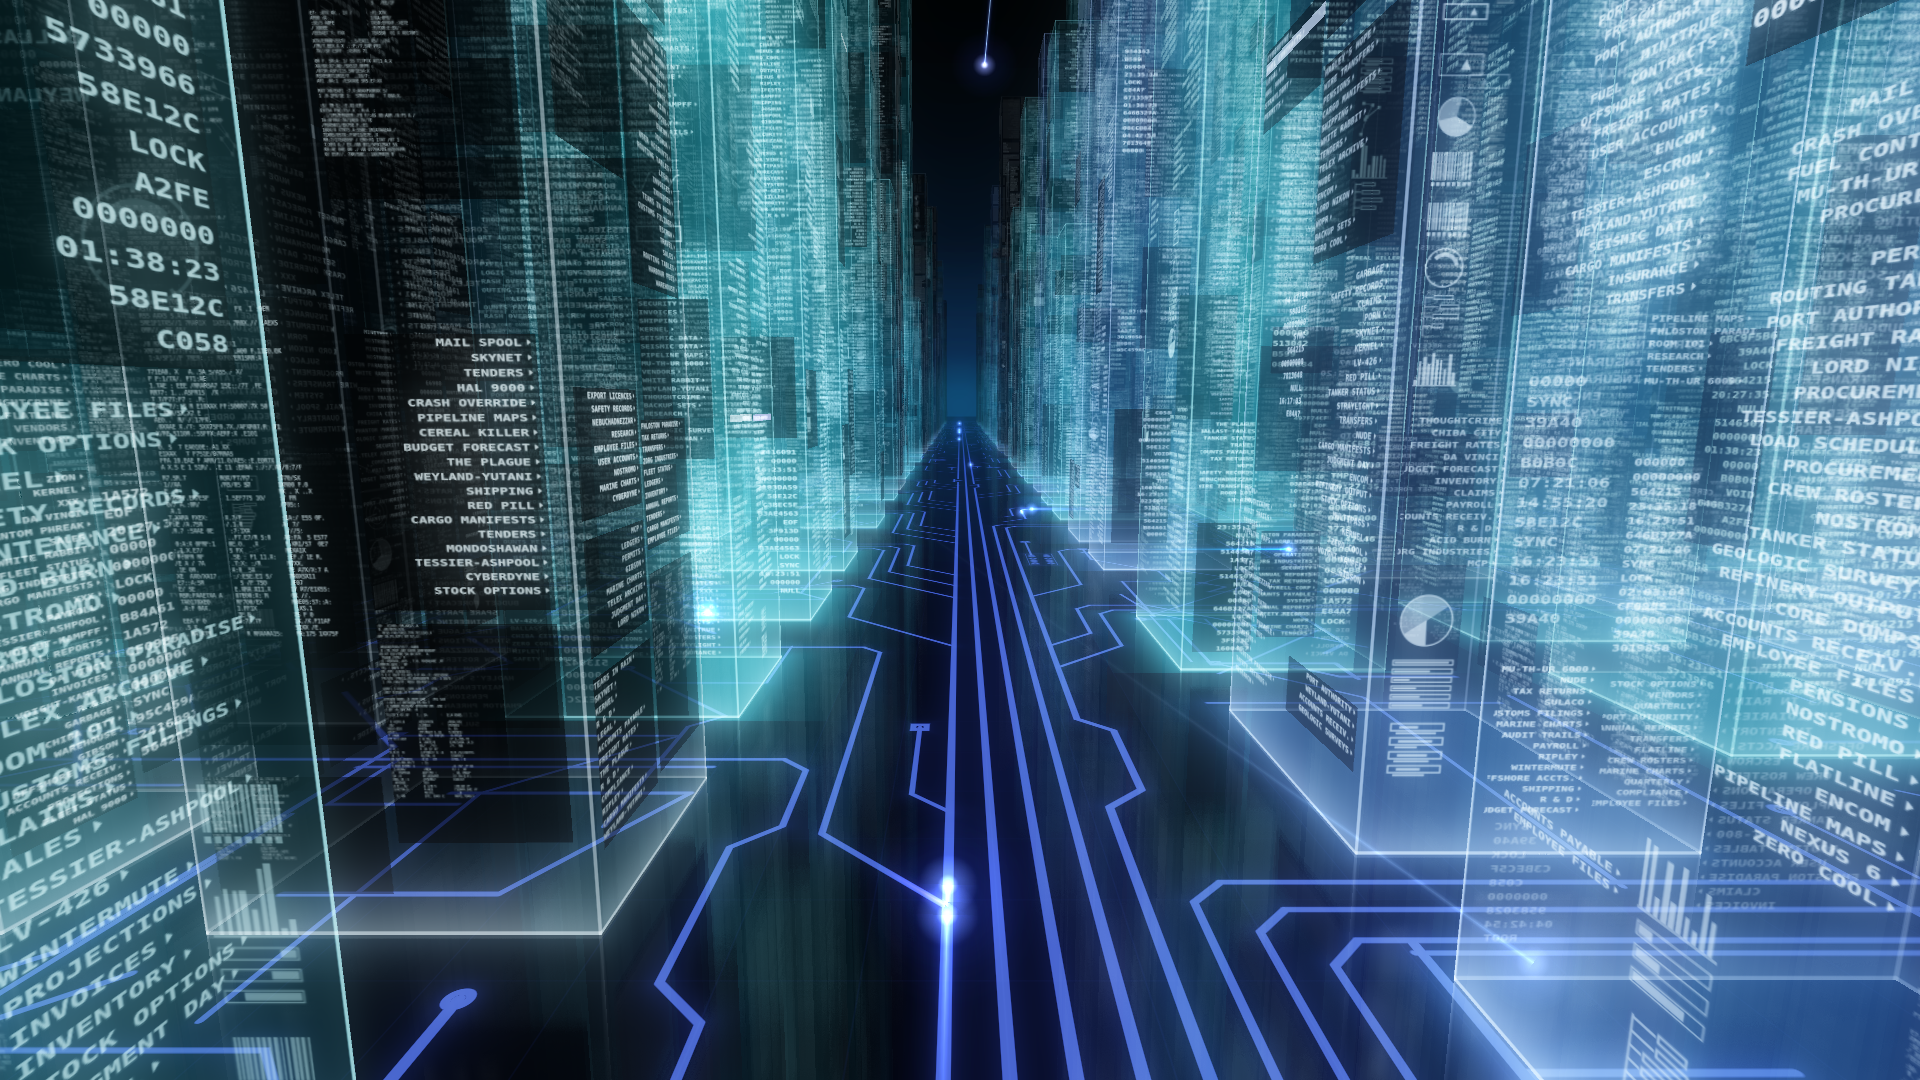
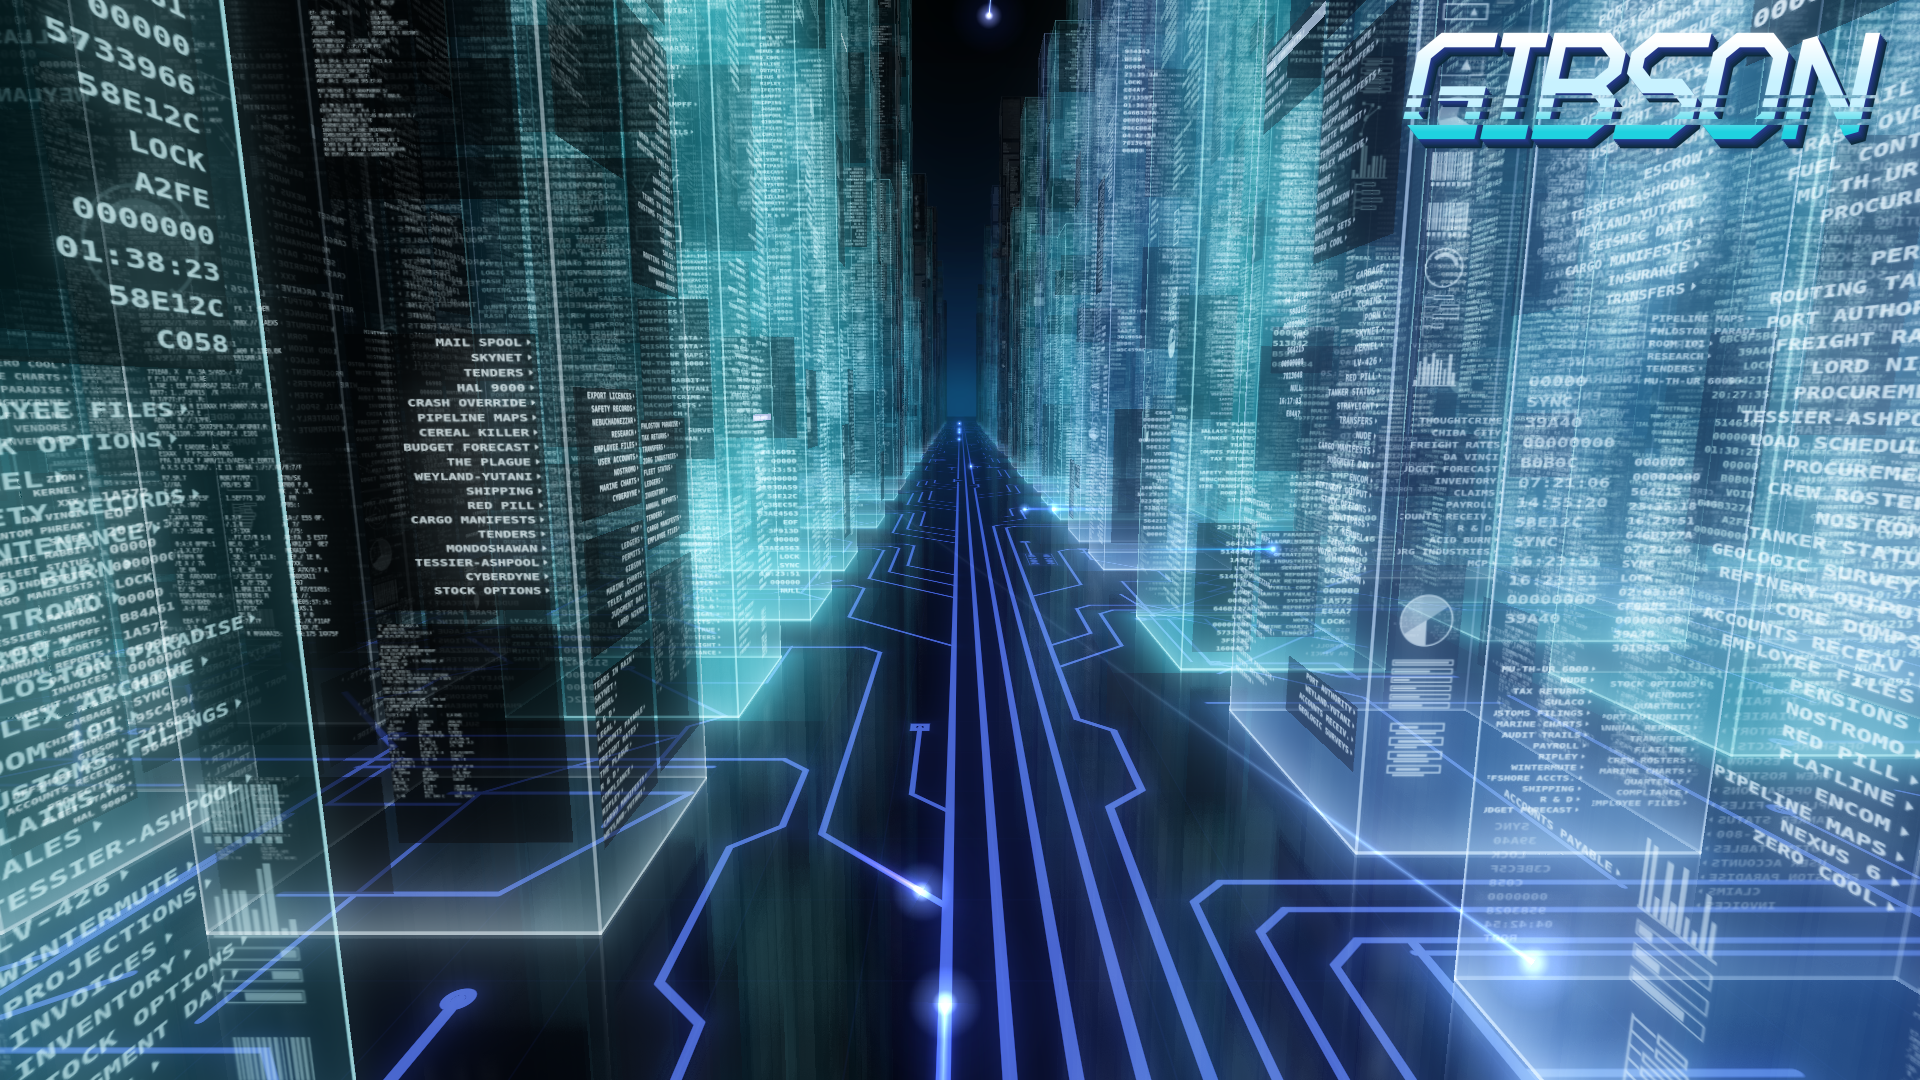
The hostname where racing has it in every scene that hides it, and gibson's shown in the README
The scenes that hide the hostname by default put it, when it is shown, at the same place: where the
upper right bracket's corner was (corner = 0.03), as racing does. forest, blocky and gibson set it.
The matrix's lettering, its own, sized from the hostname's slot, now has the top of its ink at that
corner too: it stood lower than the others'. Its place is the theme's (Theme::own_place), and in the top right corner the
hostname's place is its letters' (title_place): the instruments, the status line and the caption
line up with and keep clear of what is drawn, not the lettering it stands in for. The README's
pictures of these are made again, gibson's now with its hostname, and racing's clip with the poles
as they are drawn now, each whole as it comes into view.

diff --git a/src/title.rs b/src/title.rs
@@ -14,12 +14,35 @@ type Pts = Vec<(f64, f64)>;
 type InkEdges = Vec<Option<(f64, f64)>>;
 
 /// A theme's lettering measurements, each made once when first needed: a glyph's ink edges by row, a
-/// pair's kerning, a name's ink reach.
+/// pair's kerning, a name's ink reach; and the lettering of its own an element draws the hostname in,
+/// if one does.
 #[derive(Default)]
 pub struct Measures {
     edges: Mutex<HashMap<char, InkEdges>>,
     kerns: Mutex<HashMap<(char, char), f64>>,
     ink: Mutex<HashMap<String, Ink>>,
+    own: Mutex<Option<std::sync::Arc<OwnLettering>>>,
+}
+
+/// A lettering of a theme's own, drawn by an element in place of the hostname's (the matrix's
+/// `codetitle`): each glyph's advance and ink box [x_min, y_min, x_max, y_max] in its units, y down,
+/// origin on the baseline, and its pairs' kerning. With one, the hostname's place is its letters'.
+#[derive(Clone, Debug, Default)]
+pub struct OwnLettering {
+    pub glyphs: HashMap<char, (f64, [f64; 4])>,
+    pub kerning: HashMap<String, f64>,
+}
+
+/// The hostname in a lettering of the theme's own, placed: its letters (upper case, those it has), each
+/// one's pen position, its scale (pixels a unit), the right of its ink, its baseline, and its ink box
+/// in its units (left, right, height above the baseline).
+pub struct OwnPlaced {
+    pub text: Vec<char>,
+    pub pens: Vec<f64>,
+    pub s: f64,
+    pub right: f64,
+    pub base: f64,
+    pub ink: (f64, f64, f64),
 }
 
 /// How far a name's ink (strokes and extrusion, slanted) reaches past its slanted letter box, in letter
@@ -370,10 +393,57 @@ impl Theme {
         v
     }
 
+    /// The lettering of the theme's own its element draws the hostname in, from now on (`OwnLettering`).
+    pub fn set_own_lettering(&self, l: OwnLettering) {
+        *held(&self.measures.own) = Some(std::sync::Arc::new(l));
+    }
+
+    /// The hostname in the theme's own lettering, if it has one: as tall as the hostname's letters and
+    /// a quarter (the film's capitals), no wider than their room, the right of its ink at the hostname's
+    /// right; in the top right corner of a theme with a corner the top of its ink at it, else on the
+    /// hostname's baseline.
+    pub fn own_place(&self, width: i32, height: i32, host: &str, edges: Edges) -> Option<OwnPlaced> {
+        let own = held(&self.measures.own).clone()?;
+        let text: Vec<char> = self.title_text(host).iter().flat_map(|c| c.to_uppercase()).filter(|c| own.glyphs.contains_key(c)).collect();
+        if text.is_empty() {
+            return None;
+        }
+        let p = self.letter_place(width, height, host, edges);
+        let mut pens = vec![];
+        let mut pen = 0.0;
+        for k in 0..text.len() {
+            pens.push(pen);
+            let pair: String = text[k..(k + 2).min(text.len())].iter().collect();
+            pen += own.glyphs.get(&text[k]).map_or(0.0, |g| g.0) + own.kerning.get(&pair).copied().unwrap_or(0.0);
+        }
+        let boxes: Vec<(f64, f64, f64)> = pens.iter().zip(&text).filter_map(|(&p, ch)| own.glyphs.get(ch).map(|g| (p + g.1[0], g.1[1], p + g.1[2]))).collect();
+        let left = boxes.iter().map(|b| b.0).fold(f64::INFINITY, f64::min);
+        let right = boxes.iter().map(|b| b.2).fold(f64::NEG_INFINITY, f64::max);
+        let top = -boxes.iter().map(|b| b.1).fold(f64::INFINITY, f64::min);
+        let tr = self.title_right(width, height);
+        let s = ((p.base - p.y0) * 1.25 / 1.0f64.max(top)).min((tr - p.x0) / 1.0f64.max(right - left));
+        let cornered = self.tw.corner != 0.0 && self.tw.title_corner == TitleCorner::TopRight;
+        let base = if cornered { self.tw.corner * unit(width, height) + top * s } else { p.base };
+        Some(OwnPlaced { text, pens, s, right: tr, base, ink: (left, right, top) })
+    }
+
     /// Placement of the hostname, in pixels (letter x positions in letter units). Default: ink's top
     /// right corner at CORNER. TITLE_CORNER bottom-left: first letter's foot inset equally from left and
-    /// bottom.
+    /// bottom. In a lettering of the theme's own (`own_place`) in the top right corner, its letters' top,
+    /// baseline and left: what keeps clear of the hostname, or lines up with it, does so with what is
+    /// drawn. (Bottom left, what finds the hostname works from its letters' spacing: there it keeps to
+    /// the theme's lettering's box.) A scene has one hostname lettering: `u`, `cap` and `xs` are the
+    /// theme's lettering's, and do not go with an own lettering's `x0`, `y0` and `base`.
     pub fn title_place(&self, width: i32, height: i32, host: &str, edges: Edges) -> Placed {
+        let p = self.letter_place(width, height, host, edges);
+        match self.own_place(width, height, host, edges).filter(|_| self.tw.title_corner == TitleCorner::TopRight) {
+            Some(o) => Placed { y0: o.base - o.ink.2 * o.s, base: o.base, x0: o.right - (o.ink.1 - o.ink.0) * o.s, ..p },
+            None => p,
+        }
+    }
+
+    /// The hostname's placement in the theme's lettering (`title_place`, without a lettering of its own).
+    fn letter_place(&self, width: i32, height: i32, host: &str, edges: Edges) -> Placed {
         let tw = &self.tw;
         let text = self.title_text(host);
         let u = self.title_unit(width, height, &text);

diff --git a/src/elements/code_rain.rs b/src/elements/code_rain.rs
@@ -645,36 +645,16 @@ impl Part for CodeTitle {
     fn paint(&mut self, g: &Geo, ctx_: &Context, _s: &mut Shared) {
         let (w, h) = (g.w, g.h);
         let font = &self.font;
-        let text: Vec<char> = g.th.title_text(&g.host).iter().flat_map(|c| c.to_uppercase()).filter(|c| font.glyphs.contains_key(c)).collect();
-        let p = g.th.title_place(w, h, &g.host, Edges::NONE);
-        let (y0, base, x0) = (p.y0, p.base, p.x0);
-        let mut pens = vec![];
-        let mut pen = 0.0;
-        for k in 0..text.len() {
-            pens.push(pen);
-            let pair: String = text[k..(k + 2).min(text.len())].iter().collect();
-            pen += font.glyphs.get(&text[k]).map_or(0.0, |g| g.advance) + font.kerning.get(&pair).copied().unwrap_or(0.0);
-        }
-        let boxes: Vec<(f64, f64, f64)> = pens
-            .iter()
-            .zip(&text)
-            .filter_map(|(&p, ch)| {
-                let b = font.glyphs.get(ch)?.ink;
-                Some((p + b[0], b[1], p + b[2]))
-            })
-            .collect();
         let surface_ = surface(w, h);
         let out = surface(w, h);
         {
             let o = ctx(&out);
-            if !boxes.is_empty() {
-                let left = boxes.iter().map(|b| b.0).fold(f64::INFINITY, f64::min);
-                let right = boxes.iter().map(|b| b.2).fold(f64::NEG_INFINITY, f64::max);
-                let top = -boxes.iter().map(|b| b.1).fold(f64::INFINITY, f64::min);
-                let tr = g.th.title_right(w, h);
-                let s = ((base - y0) * 1.25 / 1.0f64.max(top)).min((tr - x0) / 1.0f64.max(right - left));
-                let x1 = tr;
-                let (x0_ink, y0_ink) = (x1 - (right - left) * s, base - top * s);
+            // where the hostname is in this lettering: the theme's own placement of it, which what lines up
+            // with the hostname uses too
+            if let Some(p) = g.th.own_place(w, h, &g.host, Edges::NONE) {
+                let ((_, right, top), s, base, x1) = (p.ink, p.s, p.base, p.right);
+                let (pens, text) = (&p.pens, &p.text);
+                let (x0_ink, y0_ink) = (x1 - (right - p.ink.0) * s, base - top * s);
                 let (pad, blur) = (0.35 * top * s, 2.0f64.max((0.5 * top * s).round()));
                 let dark = surface(w, h);
                 {
@@ -690,7 +670,7 @@ impl Part for CodeTitle {
                 c.set_source_rgb(r, gg, b);
                 c.translate(x1 - right * s, base);
                 c.scale(s, s);
-                for (&p, &ch) in pens.iter().zip(&text) {
+                for (&p, &ch) in pens.iter().zip(text.iter()) {
                     let _ = c.save();
                     c.translate(p, 0.0);
                     font.letter(&c, ch);
@@ -735,7 +715,11 @@ shade = 0.9"##,
             check: check::<CodeTitleSettings>,
             make: |_, t, g| {
                 let s: CodeTitleSettings = settings(t);
-                Ok(vec![Box::new(CodeTitle { colour: s.colour, glow: s.glow, shade: s.shade, font: Lettering::load(&g.th, "Matrix")? })])
+                let font = Lettering::load(&g.th, "Matrix")?;
+                // the hostname's place is these letters': what lines up with the hostname finds them
+                let glyphs = font.glyphs.iter().map(|(&c, gl)| (c, (gl.advance, gl.ink))).collect();
+                g.th.set_own_lettering(crate::title::OwnLettering { glyphs, kerning: font.kerning.clone() });
+                Ok(vec![Box::new(CodeTitle { colour: s.colour, glow: s.glow, shade: s.shade, font })])
             },
         },
     ]
